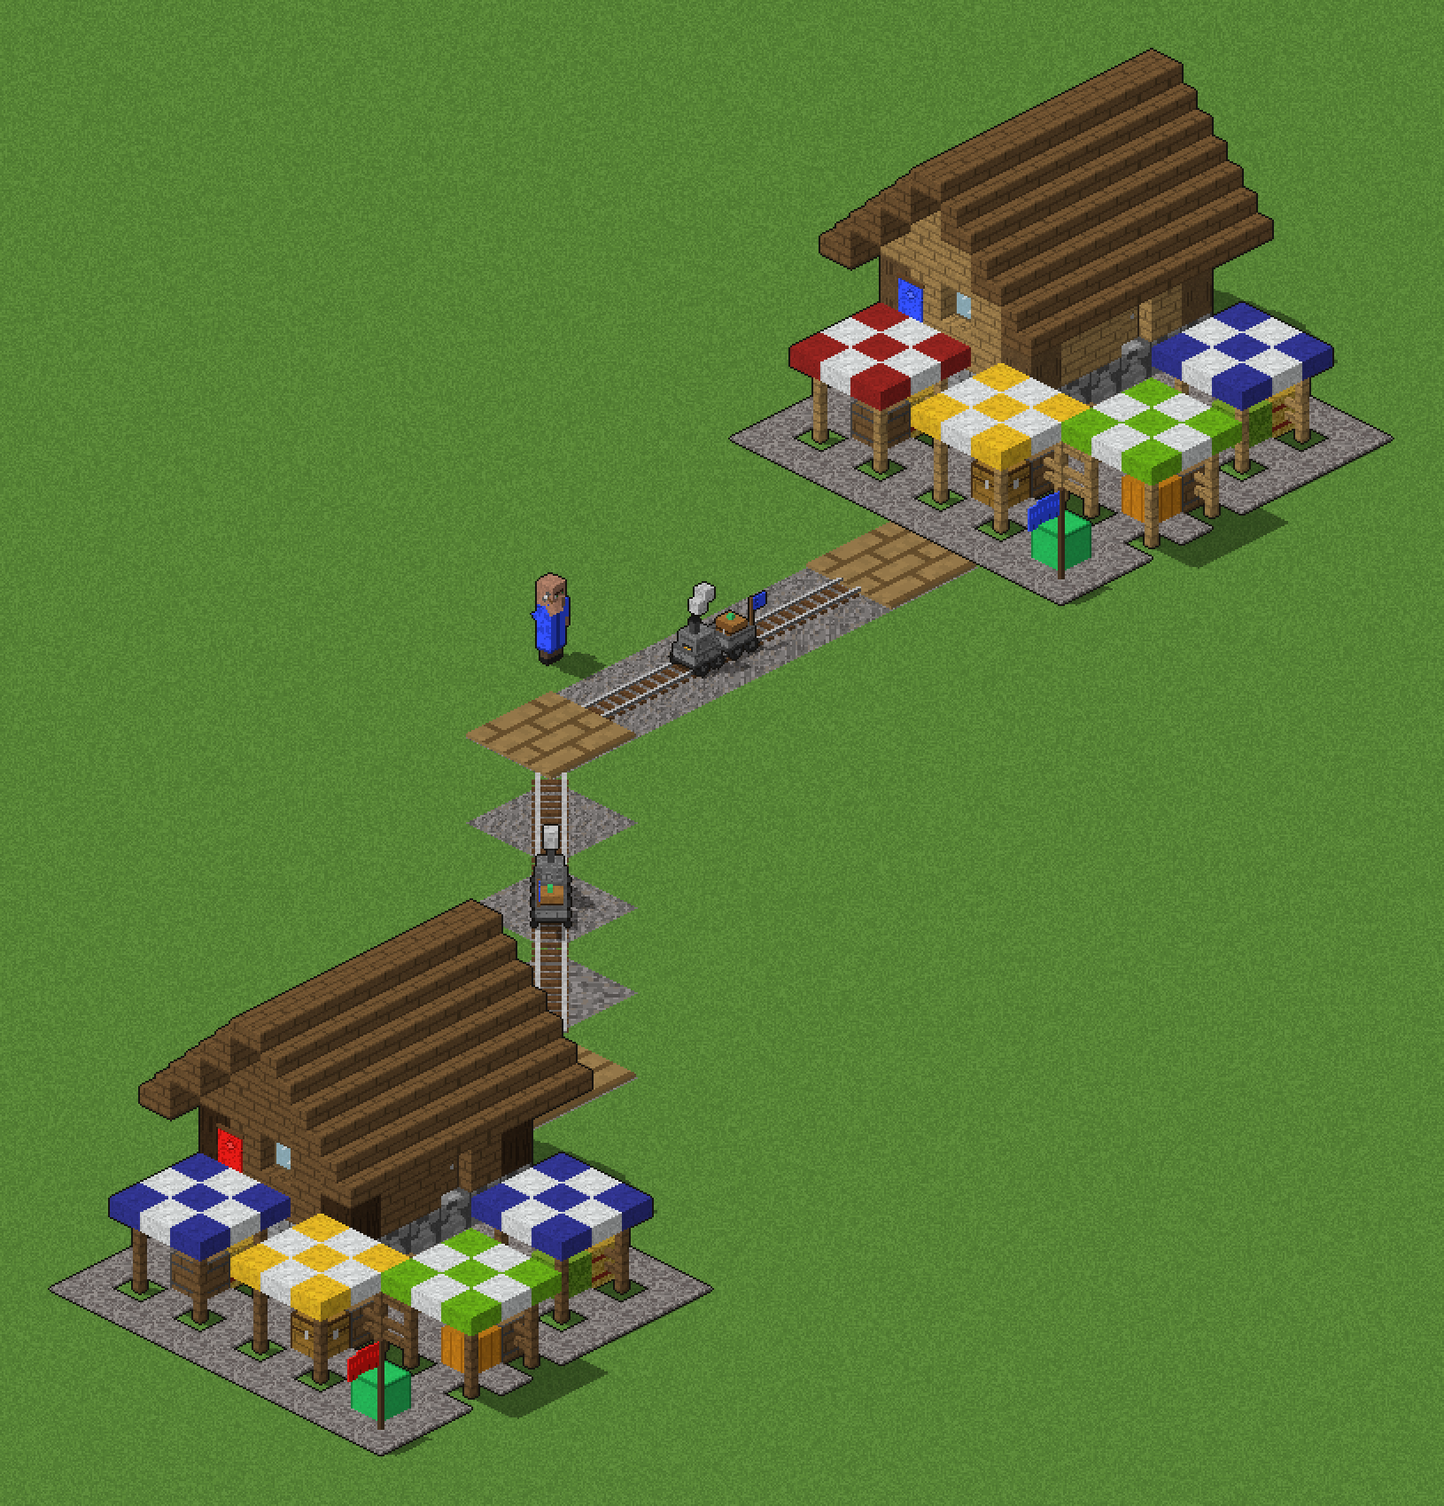
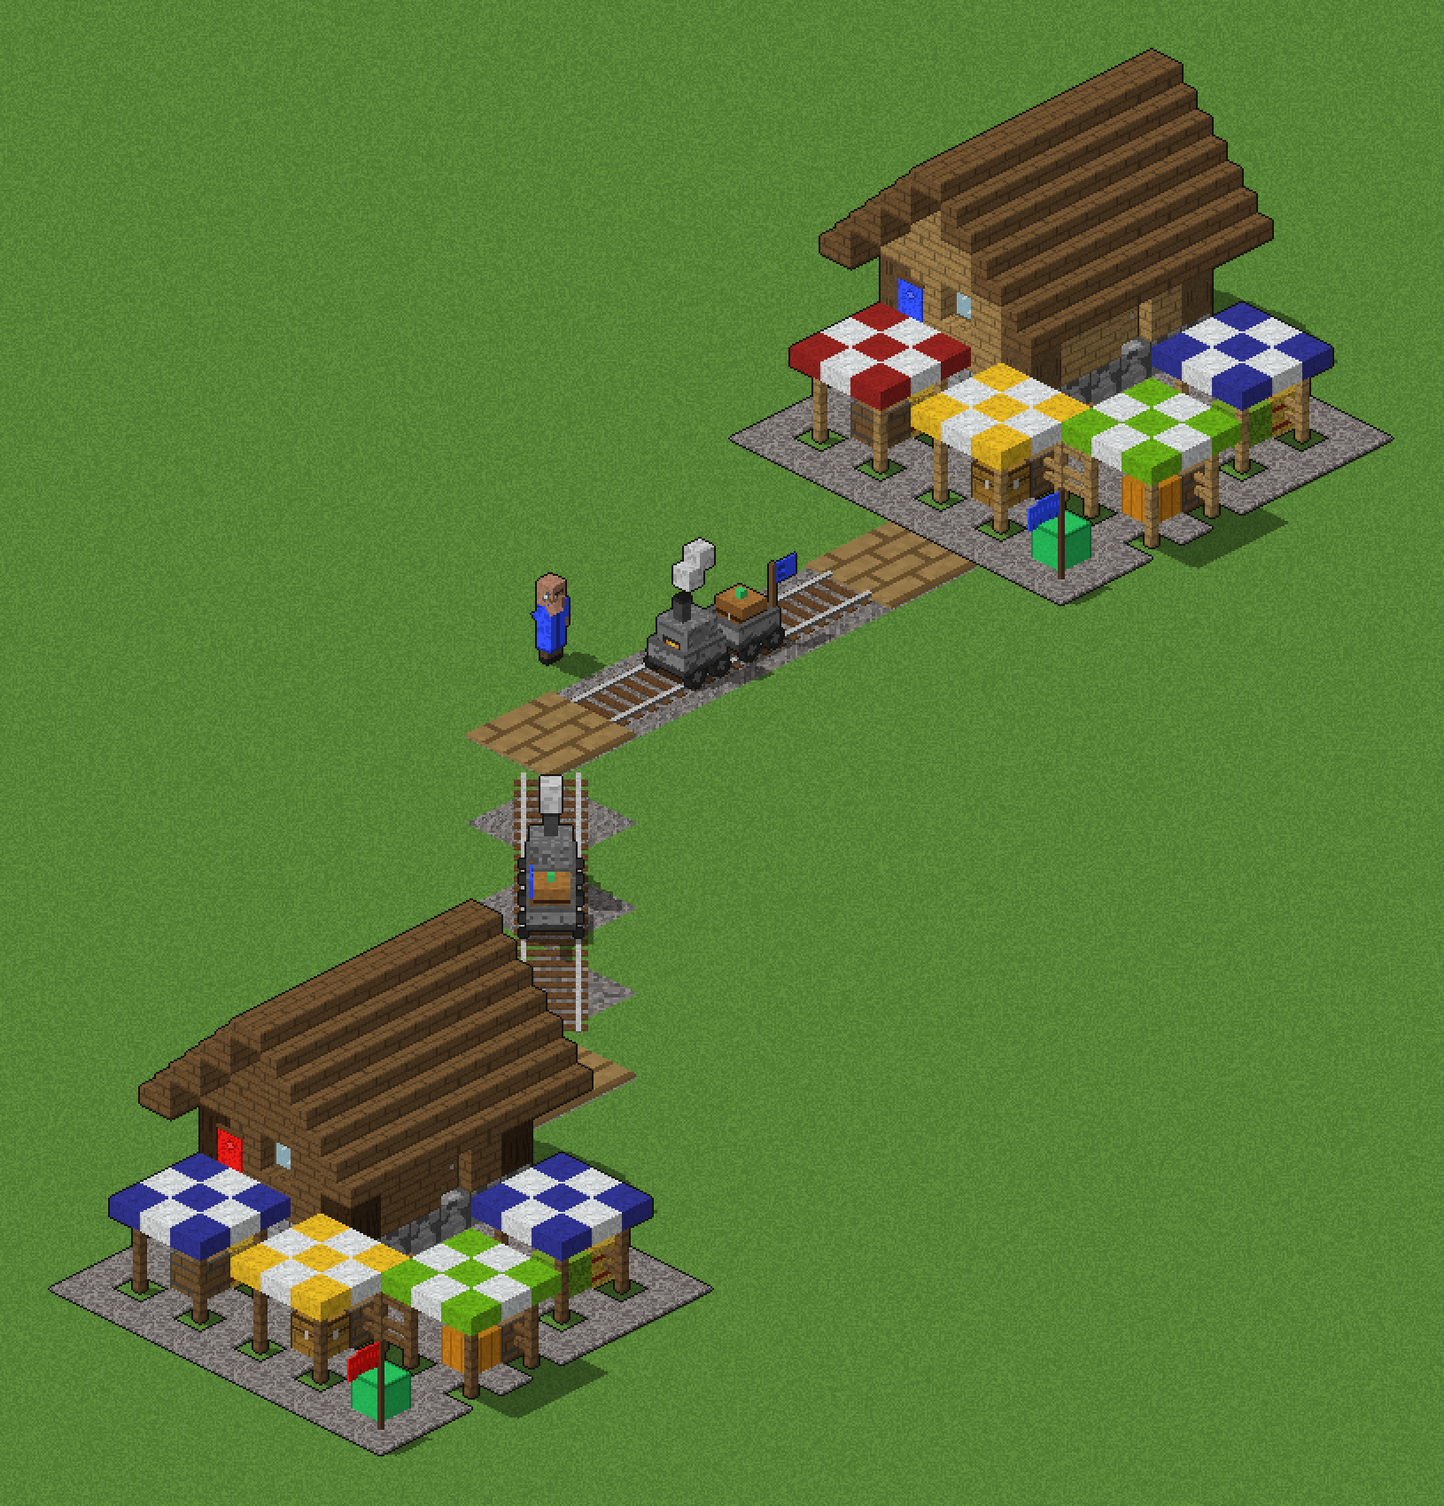
Let Villagers lay rails on land, and make the train bigger
The rail is the game's unused Sea Wall, and it kept the Sea Wall's terrain
restriction: water, beach and shallows only. On land the game would not place
it, so no rails could be built and trains had nowhere to go. The rail now
takes the Palisade Wall's terrain restriction, so it stands wherever a
palisade may, on the gravel of other rails too.

The train is drawn 1.6 times the Trade Cart's size, and the track is as wide
as the train, so its wheels stay on the rails.

Changed region(s): [[0.3374, 0.3429, 0.6135, 0.6859]]

diff --git a/tools/aom/rails.py b/tools/aom/rails.py
@@ -3,8 +3,9 @@
 The game has no rails, so they are made of three leftovers in the .dat (`patch`):
 
 - the rail is the Sea Wall (unit 788), a wall no one can build: Villagers build it (second page, next to the Gate),
-  dragging a line as they drag a wall, for 1 wood and 1 gold a tile. It stays a wall to the game (so the dragging,
-  and the pieces of a line), but nothing is stopped by it, as nothing is by a farm: its obstruction type is 0;
+  dragging a line as they drag a wall, for 1 wood and 1 gold a tile, on land, where a Palisade Wall may stand (a Sea
+  Wall stood in water). It stays a wall to the game (so the dragging, and the pieces of a line), but nothing is
+  stopped by it, as nothing is by a farm: its obstruction type is 0;
 - under each rail it leaves gravel (its foundation terrain): terrain 16, "Old Grass", which no map uses and which
   the game draws with the Grass's texture. It gets its own, Minecraft gravel cut into the Grass's tile shapes
   (`encode`), the Road's blending and a grey on the minimap. Everyone walks and builds on it as on grass;
@@ -39,6 +40,7 @@ from .textures import Painter, parse
 RAIL_BED = 16  # "Old Grass": the gravel under the rails
 GRASS, ROAD = 0, 24  # the terrain it is drawn as (its tile shapes), and the one it blends like
 RAIL = 788  # the Sea Wall
+PALISADE = 72  # the Palisade Wall: where it may stand (on land), the rail may too (the Sea Wall's own: water)
 RAIL_NAME = "SWAL"  # its graphics' names: SWAL1N0 (layer 5), SWAL1N1 and SWAL1NN
 WALL = 27  # unit class: Villagers drag walls out in lines
 TRAINS = (128, 204)  # the Trade Cart, empty and loaded
@@ -52,6 +54,8 @@ NO_PASS = (-1, -1, -1, 0)  # pass graphics: no tracks left on the gravel
 MINIMAP = (132, 128, 124)
 GRAVEL = ("#837f7d", "#6e6a68", "#9a9593", "#5c5856", "#8a7f74")  # Minecraft's gravel: greys and a brown
 PLANKS, SLEEPER, IRON, IRON_EDGE = "#a0814f", "#6b4a2b", "#c4c4c4", "#6e6e6e"
+TRAIN_SCALE = 1.6  # the train's size (siege.trade_cart), which the track is as wide as
+GAUGE = 6.5 * TRAIN_SCALE  # from the track's middle to each rail: under the train's wheels (6.5 out, scaled)
 BUILDING_ICONS = (50705, 50706, 50707, 50708)  # the building icon sheets in interfac.drs, one per icon set
 ICON_COLOURS = {0: (110, 106, 104), 1: (140, 135, 132), 2: (84, 80, 78), 3: (107, 74, 43), 4: (72, 48, 26),
                 5: (200, 200, 200), 6: (100, 100, 100)}
@@ -110,11 +114,13 @@ def ground(w: int, h: int, x0: int = 0, y0: int = 0) -> np.ndarray:
 def _track(p: Painter, name: str, length: float, sleepers: int, angle: float) -> Part:
     """A straight track through the tile's centre, `length` long, at `angle` degrees from model x: sleepers across
     it, two iron rails on them, ending just past the tile so the next tile's joins it."""
-    wood = p.skin((2.5, 14, 1), p.speckle(SLEEPER, ("#5a3c22", 0.3)))
-    rail = p.skin((length + 2, 1.5, 1.2), p.bands((1, IRON_EDGE)), top=IRON)
+    reach = GAUGE + 3.5  # a sleeper sticks out past each rail
+    wood = p.skin((3.5, 2 * reach, 1), p.speckle(SLEEPER, ("#5a3c22", 0.3)))
+    rail = p.skin((length + 2, 2, 1.5), p.bands((1, IRON_EDGE)), top=IRON)
     step = length / sleepers
-    boxes = [cuboid((-length / 2 + (k + 0.5) * step - 1.25, -7, 0), (2.5, 14, 1), wood) for k in range(sleepers)]
-    boxes += [cuboid((-length / 2 - 1, w - 0.75, 1), (length + 2, 1.5, 1.2), rail) for w in (-5, 5)]
+    boxes = [cuboid((-length / 2 + (k + 0.5) * step - 1.75, -reach, 0), (3.5, 2 * reach, 1), wood)
+             for k in range(sleepers)]
+    boxes += [cuboid((-length / 2 - 1, w - 1, 1), (length + 2, 2, 1.5), rail) for w in (-GAUGE, GAUGE)]
     return Part(name, rot=(0, 0, angle), boxes=boxes)
 
 
@@ -131,8 +137,8 @@ def rail_piece(piece: str) -> Part:
              for k in range(16)], {"P": PLANKS, "d": "#6f5530"}))
         return Part("rail_post", boxes=[cuboid((-t / 2, -t / 2, 0), (t, t, 1.5), deck)])
     if piece in ("x", "y"):
-        return _track(p, f"rail_{piece}", t, 8, 0 if piece == "x" else 90)
-    return _track(p, f"rail_{piece}", t * 2 ** 0.5, 11, -45 if piece == "h" else 45)
+        return _track(p, f"rail_{piece}", t, 6, 0 if piece == "x" else 90)
+    return _track(p, f"rail_{piece}", t * 2 ** 0.5, 8, -45 if piece == "h" else 45)
 
 
 def rail_icon(size: int = 36) -> np.ndarray:
@@ -227,10 +233,12 @@ def patch(data: bytearray, civs, graphics: dict, slp_id: int, colour: int,
         if (u is None or u.type != 80 or u.values["class"] != WALL or u.values["train_location"] != -1
                 or stand is None or not stand.name.upper().startswith(RAIL_NAME)):
             continue  # not the leftover this build knows
-        carts = [units[k] for k in TRAINS]
+        carts, wall = [units[k] for k in TRAINS], units[PALISADE]
         if any(c is None or c.type != 70 or c.values["class"] != TRADE_CART for c in carts):
             continue
-        rails.append(u)
+        if wall is None or wall.type != 80 or wall.values["class"] != WALL:
+            continue
+        rails.append((u, wall.values["terrain_restriction"]))
         trains += carts
     if not rails:
         return False, f"Rails: not added, unit {RAIL} is not the unused Sea Wall here", None
@@ -244,8 +252,9 @@ def patch(data: bytearray, civs, graphics: dict, slp_id: int, colour: int,
     at = _row_at(bytes(data), row)
     struct.pack_into("<f", data, at + 4 * RAIL_BED, 1.0)  # the trains' row: the gravel, nothing else
     struct.pack_into("<iiii", data, at + 4 * terrains + 16 * RAIL_BED, *NO_PASS)
-    for u in rails:
+    for u, land in rails:
         DU.patch(data, u, enabled=1, train_location=VILLAGER, button=RAIL_BUTTON, cost=RAIL_COST,
+                 terrain_restriction=land,  # on land, as a Palisade Wall (as the Sea Wall, it was water only)
                  obstruction=(0, OVER, u.values["obstruction"][2]), foundation_terrain=RAIL_BED,
                  collision_size=(*u.values["collision_size"][:2], 0.0),
                  outline_size=(*u.values["outline_size"][:2], 0.0))
@@ -254,12 +263,13 @@ def patch(data: bytearray, civs, graphics: dict, slp_id: int, colour: int,
     for u in trains:
         DU.patch(data, u, terrain_restriction=row)
     strings = {}
-    for key, u in (("rail", rails[0]), ("train", trains[0])):
+    for key, u in (("rail", rails[0][0]), ("train", trains[0])):
         strings[key] = {"name": u.values["name_id"], "creation": u.values["creation_id"]}
         if u.values["help_id"] > HELP_STRINGS:
             strings[key]["help"] = u.values["help_id"] - HELP_STRINGS
-    return True, (f"Rails: unit {RAIL} ({rails[0].name}) is the rail for {len(rails)} civilisations, built by "
-                  f"Villagers (button {RAIL_BUTTON}) for 1 wood and 1 gold, leaving terrain {RAIL_BED} ({bed.name!r}) "
+    return True, (f"Rails: unit {RAIL} ({rails[0][0].name}) is the rail for {len(rails)} civilisations, built by "
+                  f"Villagers (button {RAIL_BUTTON}) for 1 wood and 1 gold on land (terrain restriction {rails[0][1]}, "
+                  f"the Palisade Wall's), leaving terrain {RAIL_BED} ({bed.name!r}) "
                   f"under it: gravel, its texture SLP {slp_id}, minimap colour {colour}"
                   + (f", icon {icon}" if icon is not None else "")
                   + f"; the trains (units {', '.join(map(str, TRAINS))}) may only go on it (terrain restriction "

diff --git a/tools/tests/test_export.py b/tools/tests/test_export.py
@@ -46,13 +46,16 @@ def fake_palette() -> bytes:
 
 def _unit_bytes(uid: int, utype: int, name: str, standing: int = -1, dead: int = -1, attacks=(), armours=(),
                 blast: float = 0.0, blast_level: int = 0, reload: float = 0.0, walking: int = -1, dying: int = -1,
-                attack_graphic: int = -1, projectile: int = -1, placement=(-1, -1, -1, -1), cls: int = 0) -> bytes:
+                attack_graphic: int = -1, projectile: int = -1, placement=(-1, -1, -1, -1), cls: int = 0,
+                restriction: int = None) -> bytes:
     """One unit record in the Conquerors layout (mirrors aom.datunits)."""
     nb = name.encode()
     b = bytearray(struct.pack("<bHhHHh", utype, len(nb), uid, 5000 + uid, 6000 + uid, 10 if uid == 860 else cls))
     b += struct.pack("<hhhhbhfb", standing, -1, dying, -1, 0, 30, 4.0, 0)
     b += struct.pack("<fffhhhbbhbhbb", 0.2, 0.2, 2.0, -1, -1, dead, 0, 0, 159 if uid == 860 else 1, 0, -1, 0, 0)
-    b += struct.pack("<hhhhffbbhbhfbbbbbfb", *placement, 0.5, 0.5, 0, 0, 1 if uid == 860 else 7,  # no beaches
+    if restriction is None:
+        restriction = 1 if uid == 860 else 7  # the Monkey Boy's has no beaches
+    b += struct.pack("<hhhhffbbhbhfbbbbbfb", *placement, 0.5, 0.5, 0, 0, restriction,
                      0, 2 if uid == 706 else 0, 0.0, 0, 0, 0, 0, 0, 0.0, 0)  # the Saboteur's carry blows him up
     b += struct.pack("<iiibbbbbbbBbhbBfff", 105000 + uid, 0, 0, 0, 0, 0, 0, 0, 0, 0, 0, 0, 0, 0, 0, 0.0, 0.0, 0.0)
     b += bytes(21) + struct.pack("<B", 0) + struct.pack("<hhbb", -1, -1, 0, 0) + nb + struct.pack("<hh", uid, uid)
@@ -84,8 +87,8 @@ def fake_civs(civs: int = 2, slots: int = 900, monkey_graphic: int = 0, boar_gra
     armour, the Saboteur (706) with its blast, the Javelina (822) borrowing the Wild Boar's sprites, with its
     carcass (823) and the boar's (356), and the Advanced Heavy Crossbowman (493: graphics `crossbow_graphic` on,
     attack, dying, standing, walking) with its shot (508) and the shot Chemistry makes of it (520), a Dock (46),
-    which may stand on Water or Shallows next to a beach, the Trade Cart (128, and 204 loaded) and the Sea Wall
-    (788, a wall no one builds, standing graphic `sea_wall_graphic`).
+    which may stand on Water or Shallows next to a beach, the Trade Cart (128, and 204 loaded), the Sea Wall
+    (788, a wall no one builds, standing graphic `sea_wall_graphic`, in water) and the Palisade Wall (72, on land).
 
     Before them, the units' task lists: the Militia (74) can attack and board a Transport Ship, the Monkey Boy
     (860) can only attack."""
@@ -126,8 +129,10 @@ def fake_civs(civs: int = 2, slots: int = 900, monkey_graphic: int = 0, boar_gra
                 out += _unit_bytes(u, 80, "DOCK", placement=(2, 35, 1, 4))
             elif u in (128, 204):
                 out += _unit_bytes(u, 70, "TCART" if u == 128 else "TCARTF", cls=19)
-            elif u == 788:
-                out += _unit_bytes(u, 80, "SWAL", sea_wall_graphic, cls=27)
+            elif u == 788:  # it stands in water (the restriction table's first row stands in for that)
+                out += _unit_bytes(u, 80, "SWAL", sea_wall_graphic, cls=27, restriction=0)
+            elif u == 72:
+                out += _unit_bytes(u, 80, "WALL", cls=27, restriction=1)
             elif u == 822:
                 out += _unit_bytes(u, 70, "BOARJ", boar_graphic, dead=356)
             elif u in (356, 823):
@@ -631,6 +636,7 @@ def test_full_build(tmp: Path):
         assert r.values["train_location"] == 118 and r.values["button"] == 12 and r.values["enabled"] == 1
         assert r.values["cost"] == (1, 1, 1, 3, 1, 1, -1, 0, 0) and r.values["foundation_terrain"] == 16
         assert r.values["obstruction"][1] == 0 and r.values["class"] == 27 and r.values["icon"] == 52
+        assert r.values["terrain_restriction"] == civ[72].values["terrain_restriction"] == 1  # on land
         assert civ[128].values["terrain_restriction"] == civ[204].values["terrain_restriction"] == 2
     pieces = slp.decode(out.get(4913))  # the rails, on the ground; the Sea Wall's other pieces hidden
     assert len(pieces) == 5 and len({f.pixels.tobytes() for f in pieces}) == 5
@@ -641,7 +647,7 @@ def test_full_build(tmp: Path):
     for sid in (50705, 50706, 50707, 50708):  # its icon, in every building icon sheet
         sheet = slp.decode(out.get(sid))
         assert len(sheet) == 53 and sheet[52].pixels.shape == (36, 36) and len(np.unique(sheet[52].pixels)) >= 5
-    assert "Rails: unit 788 (SWAL) is the rail for 2 civilisations" in report
+    assert "Rails: unit 788 (SWAL) is the rail for 2 civilisations" in report and "the Palisade Wall's" in report
     assert "the trains (units 128, 204) may only go on it (terrain restriction 2)" in report
     # his name and the game's: the mod's own language_x1_p1.dll has them; the game's files are untouched
     p1_before = (game / "language_x1_p1.dll").read_bytes()
@@ -1021,8 +1027,8 @@ def test_rails():
         cam = fit_camera(root, BUILDING_HEADING)
         size[piece] = (cam.width, cam.height)
     assert size["x"] == size["y"]  # "/" and "\\": the same track, mirrored
-    assert size["h"][0] > 4 * size["h"][1] and size["v"][1] > 1.5 * size["v"][0]  # "--" and "|"
-    assert size["post"][0] >= 96 and size["post"][1] < 60  # the whole tile, flat
+    assert size["h"][0] > 3 * size["h"][1] and size["v"][1] > size["v"][0] > size["h"][1]  # "--" and "|"
+    assert size["post"][0] >= 96 and size["post"][1] < 64  # the whole tile, flat
     tex = rails.gravel_texture()
     assert tex.shape == (16, 16, 5) and len(np.unique(tex[..., 0])) == len(rails.GRAVEL)
     assert rails.ground(50, 30).shape == (30, 50, 4) and (rails.ground(50, 30)[..., 3] == 255).all()

diff --git a/tools/aom/gameplay.py b/tools/aom/gameplay.py
@@ -204,7 +204,8 @@ def patch_dat(raw: bytes, graphics: dict, pacman: bool = True, javelina: bool = 
         rail = units[rail_map.RAIL] if rail_strings is not None and len(units) > rail_map.RAIL else None
         if rail is not None and rail.type == 80 and rail.values["train_location"] == rail_map.VILLAGER and (
                 rail.values["foundation_terrain"] != rail_map.RAIL_BED
-                or rail.values["obstruction"][1] != rail_map.OVER or rail.values["cost"] != rail_map.RAIL_COST):
+                or rail.values["obstruction"][1] != rail_map.OVER or rail.values["cost"] != rail_map.RAIL_COST
+                or rail.values["terrain_restriction"] != units[rail_map.PALISADE].values["terrain_restriction"]):
             return None, notes + ["not changed: the rail did not read back as expected"]
     if pac_done:
         try:

diff --git a/tools/aom/siege.py b/tools/aom/siege.py
@@ -18,6 +18,7 @@ from . import items
 from .geometry import Part, cuboid
 from .items import held
 from .mounted import horse
+from .rails import TRAIN_SCALE
 from .textures import PC, Painter, layered, parse
 from .units import ARMOUR, Unit, rows_only, solid
 
@@ -297,7 +298,7 @@ def trade_cart(key: str = "trade_cart") -> Unit:
     root = Part("root").add(engine, *_wheels(p, [(6.5, 13, 2.5), (-6.5, 13, 2.5), (6.5, 5, 2.5), (-6.5, 5, 2.5),
                                                  (6.5, -5, 2.5), (-6.5, -5, 2.5), (6.5, -13, 2.5),
                                                  (-6.5, -13, 2.5)], 2.5, rim="#2e2e2e", wood="#5a5a5a"))
-    return _siege(key, "Minecart Train", "Trade Cart", root, attack="none")
+    return _siege(key, "Minecart Train", "Trade Cart", root, attack="none", scale=TRAIN_SCALE)
 
 
 SIEGE = {

diff --git a/docs/DESIGN.md b/docs/DESIGN.md
@@ -49,7 +49,7 @@ and an animation sample in `previews/anim_<group>.gif`.
 | Cavalry Archers | Skeleton horsemen |
 | Monk / Missionary | Cleric villager in a hooded team robe with a book (the Missionary rides a donkey) |
 | Siege | Ravager rams (bare → iron-capped → netherite). Dispenser minecarts as mangonels. Crossbow turrets as scorpions. A TNT cannon with an obsidian barrel. A log-frame trebuchet that packs flat. |
-| Wagons | War Wagon as a covered wagon with a team canopy; Trade Cart as a train: a furnace minecart with a chimney, smoking as it goes, pulling a chest minecart |
+| Wagons | War Wagon as a covered wagon with a team canopy; Trade Cart as a big train: a furnace minecart with a chimney, smoking as it goes, pulling a chest minecart |
 | Ships | Minecraft boats scaled up, twice the size they were first drawn, with team wool sails. The Fire Ship carries a campfire (soul fire when upgraded), the Demolition Ship is loaded with TNT, and the Cannon Galleon mounts a TNT cannon. |
 | Unique units | Longbowman → Stray · Woad Raider → Zombie · Chu Ko Nu → Illusioner · Throwing Axeman → Piglin · Huskarl → Piglin Brute · Samurai → Wither Skeleton · War Elephant → Iron Golem · Teutonic Knight → netherite knight · Janissary → Blaze · Berserk → Vindicator · Jaguar Warrior → ocelot-hooded warrior · Plumed Archer → Bogged · Cataphract → netherite-barded horseman · Mangudai → Pillager on horseback · Mameluke → Husk on a llama · Tarkan → Zombie on a zombie horse · Conquistador → firework rider · War Wagon → armoured wagon · Longboat → spruce longship with shields · Turtle Ship → turtle-shell ship |
 | Animals | Sheep (dyed wool) · Turkey → Chicken · Deer → Goat · Wild Boar → Hoglin · Javelina → Pig · Wolf |
@@ -185,13 +185,15 @@ rails, so `rails.py` makes them from three leftovers in the `.dat`, in place:
 - **The rail** is the Sea Wall (unit 788), a wall the game has but no one can
   build. Villagers build it now, on their second build page between the Gate
   and the Castle, for 1 wood and 1 gold a tile, and drag a line of it as they
-  drag a wall (it stays a wall to the game). Nothing is stopped by it, as
+  drag a wall (it stays a wall to the game). It may stand wherever a Palisade
+  Wall may (the Sea Wall could only stand in water). Nothing is stopped by it, as
   nothing is by a farm (its obstruction type is 0). It is drawn flat on the
   ground under every unit (the Sea Wall's ground layer; its other two layers
   are blanked): Minecraft rails, iron on dark wooden sleepers, one piece per
   wall direction, so a line joins up straight or corner to corner. The ends
   and bends of a line (a wall's posts) are plank platforms, like little
-  stations, which a track from any side or corner meets. Its icon is a track
+  stations, which a track from any side or corner meets. The track is as wide
+  as the train, which is drawn 1.6 times a Trade Cart's size. Its icon is a track
   on gravel, added to the four building icon sheets.
 - **The gravel** under each rail is the rail's foundation terrain: terrain 16,
   "Old Grass", which no map uses and which the game draws with the Grass's

diff --git a/CLAUDE.md b/CLAUDE.md
@@ -124,8 +124,10 @@ putting `tools/` on `sys.path`.
      `Random`, which `restore` empties of it (only a file carrying `lava.MARK`). `--only lava` builds just this.
    - `rails.py` makes the Trade Cart (128, 204) a train that only goes on rails, in place: the rail is the unused
      Sea Wall (788, still a wall, so Villagers drag it out in lines; obstruction type 0, so nothing is stopped by
-     it), leaving terrain 16 ("Old Grass", drawn as the Grass) under it as its foundation terrain, which becomes
-     gravel (own texture in the Grass's tile shapes, the Road's blending); the trains' terrain restriction becomes
+     it; the Palisade Wall's terrain restriction, as its own lets it only into water), leaving terrain 16 ("Old
+     Grass", drawn as the Grass) under it as its foundation terrain, which becomes gravel (own texture in the
+     Grass's tile shapes, the Road's blending); the train is drawn `TRAIN_SCALE` big, the track as wide (`GAUGE`);
+     the trains' terrain restriction becomes
      the first row no unit uses that lets nothing anywhere (`train_row`), now open on terrain 16 alone. The rails are
      drawn into the Sea Wall's layer 5 piece (spritemap's `SWAL1N0`, model "rail", wall-piece order), its other
      pieces blanked; its icon is added to the four building icon sheets (`BUILDING_ICONS`), its and the train's

diff --git a/docs/INSTALL.md b/docs/INSTALL.md
@@ -195,8 +195,8 @@ can no longer be built in shallow fords (they can on lava instead). With
 `build_mod_direct.bat` the map goes into your game's `Random` folder, and
 `restore_original.bat` removes it again.
 
-**Trains and rails.** The Trade Cart is now a **Train**: a Minecraft furnace
-minecart, smoking as it goes, pulling a chest minecart. It trades as the Trade
+**Trains and rails.** The Trade Cart is now a **Train**: a big Minecraft
+furnace minecart, smoking as it goes, pulling a chest minecart. It trades as the Trade
 Cart did (from your Market to another player's Market and back, more gold the
 farther it goes), but only on rails. To lay them, select Villagers, open
 their second build page and pick **Rail** (between the Gate and the Castle,
